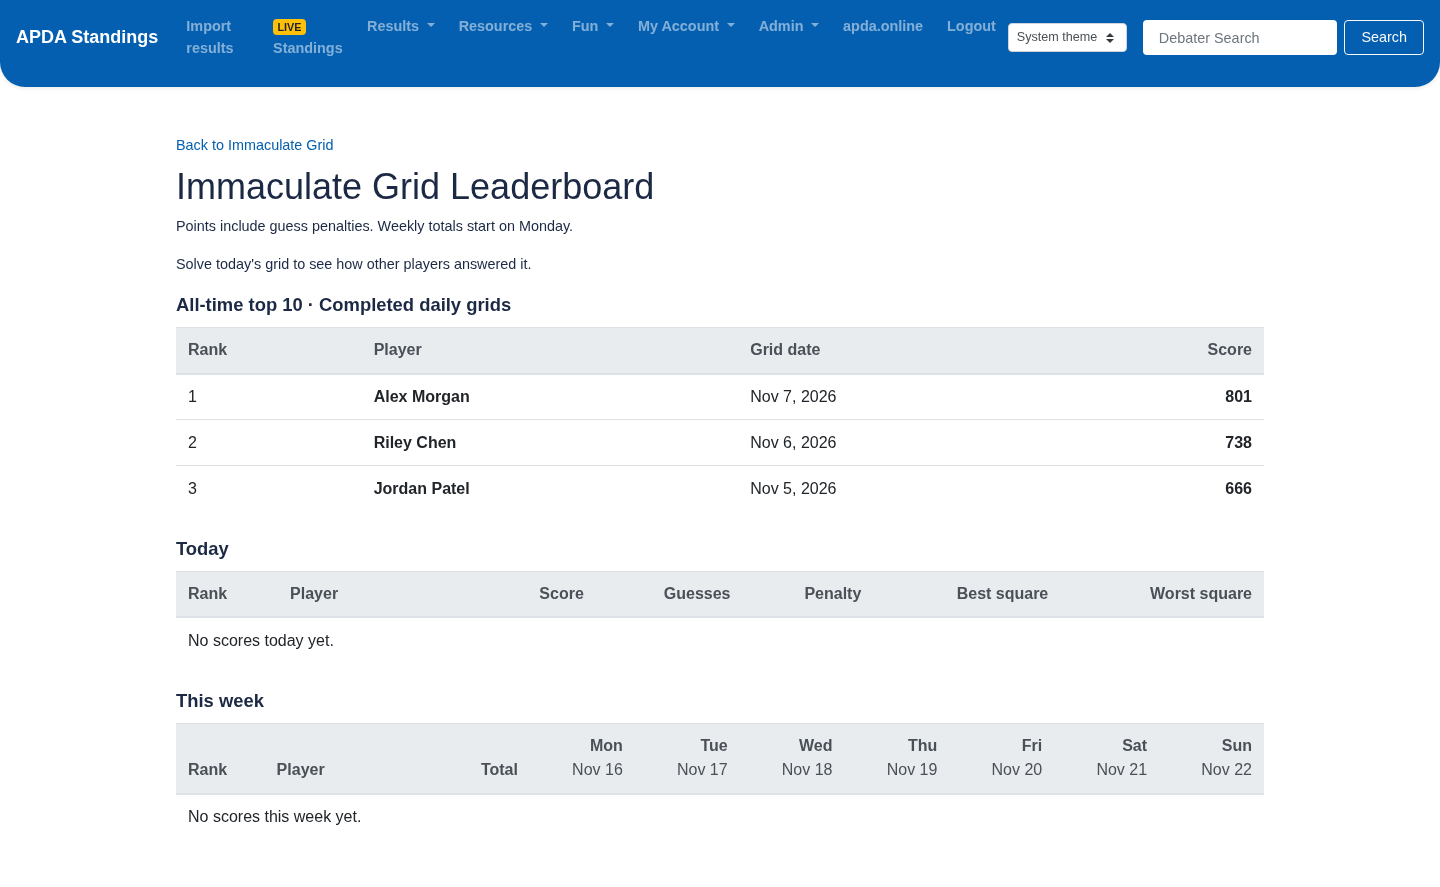
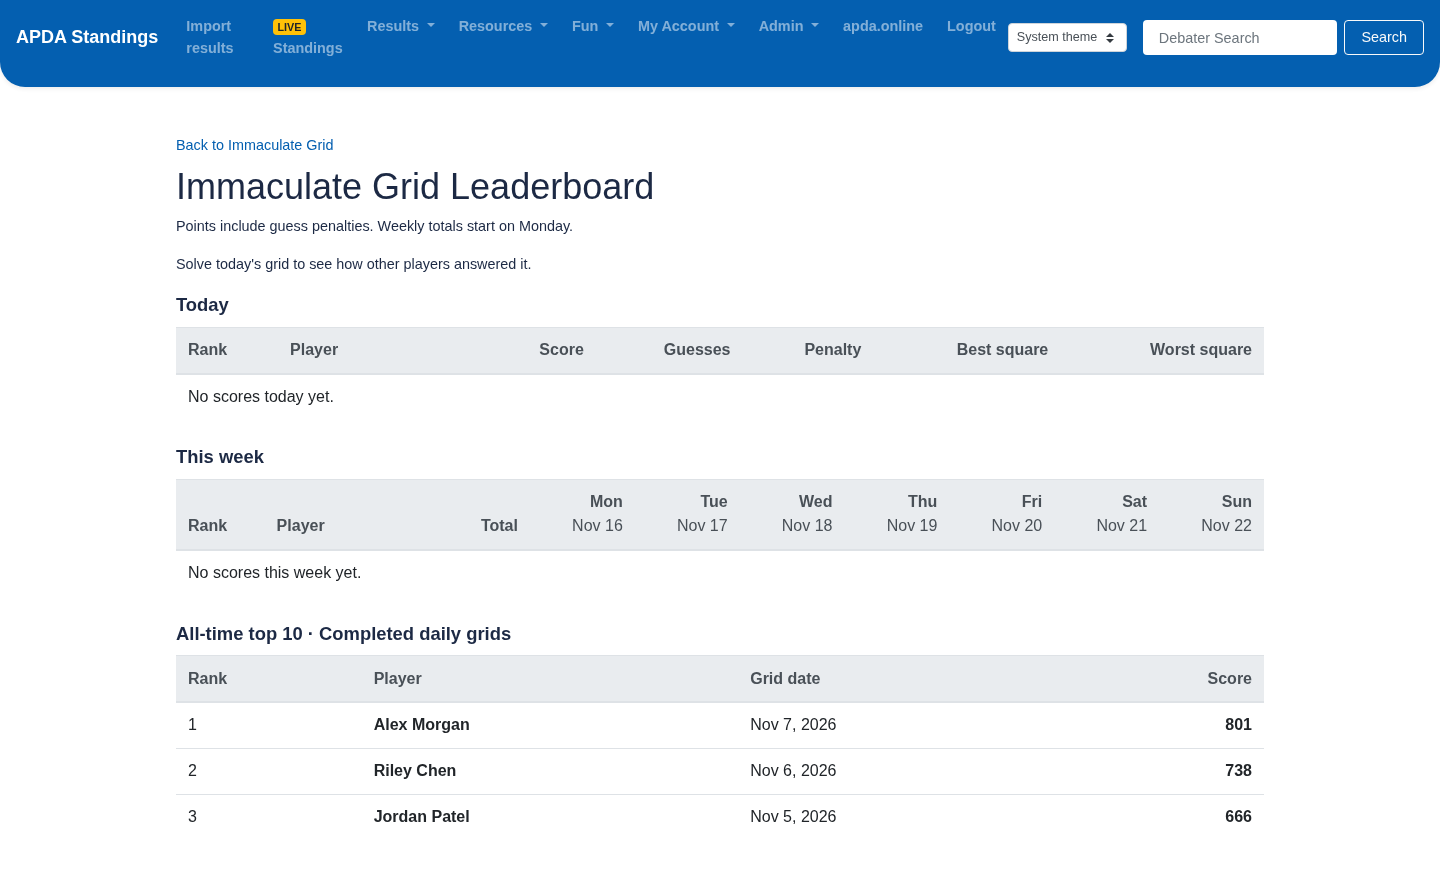
Place all-time Grid scores after weekly standings

diff --git a/core/templates/immaculate_grid/leaderboard.html b/core/templates/immaculate_grid/leaderboard.html
@@ -11,7 +11,8 @@
         <h1 class="mt-2">Immaculate Grid Leaderboard</h1>
         <p>Points include guess penalties. Weekly totals start on Monday.</p>
         {% if not can_view_boards %}<p>Solve today's grid to see how other players answered it.</p>{% endif %}
-        <div class="immaculate-rankings-scroll mb-4" role="region" aria-labelledby="leaders-all-time" tabindex="0">
+        {% include "immaculate_grid/leaderboard_tables.html" %}
+        <div class="immaculate-rankings-scroll mt-4" role="region" aria-labelledby="leaders-all-time" tabindex="0">
             <table class="table immaculate-rankings-table mb-0">
                 <caption id="leaders-all-time">All-time top 10 · Completed daily grids</caption>
                 <thead class="thead-light">
@@ -41,6 +42,5 @@
                 </tbody>
             </table>
         </div>
-        {% include "immaculate_grid/leaderboard_tables.html" %}
     </main>
 {% endblock content %}
